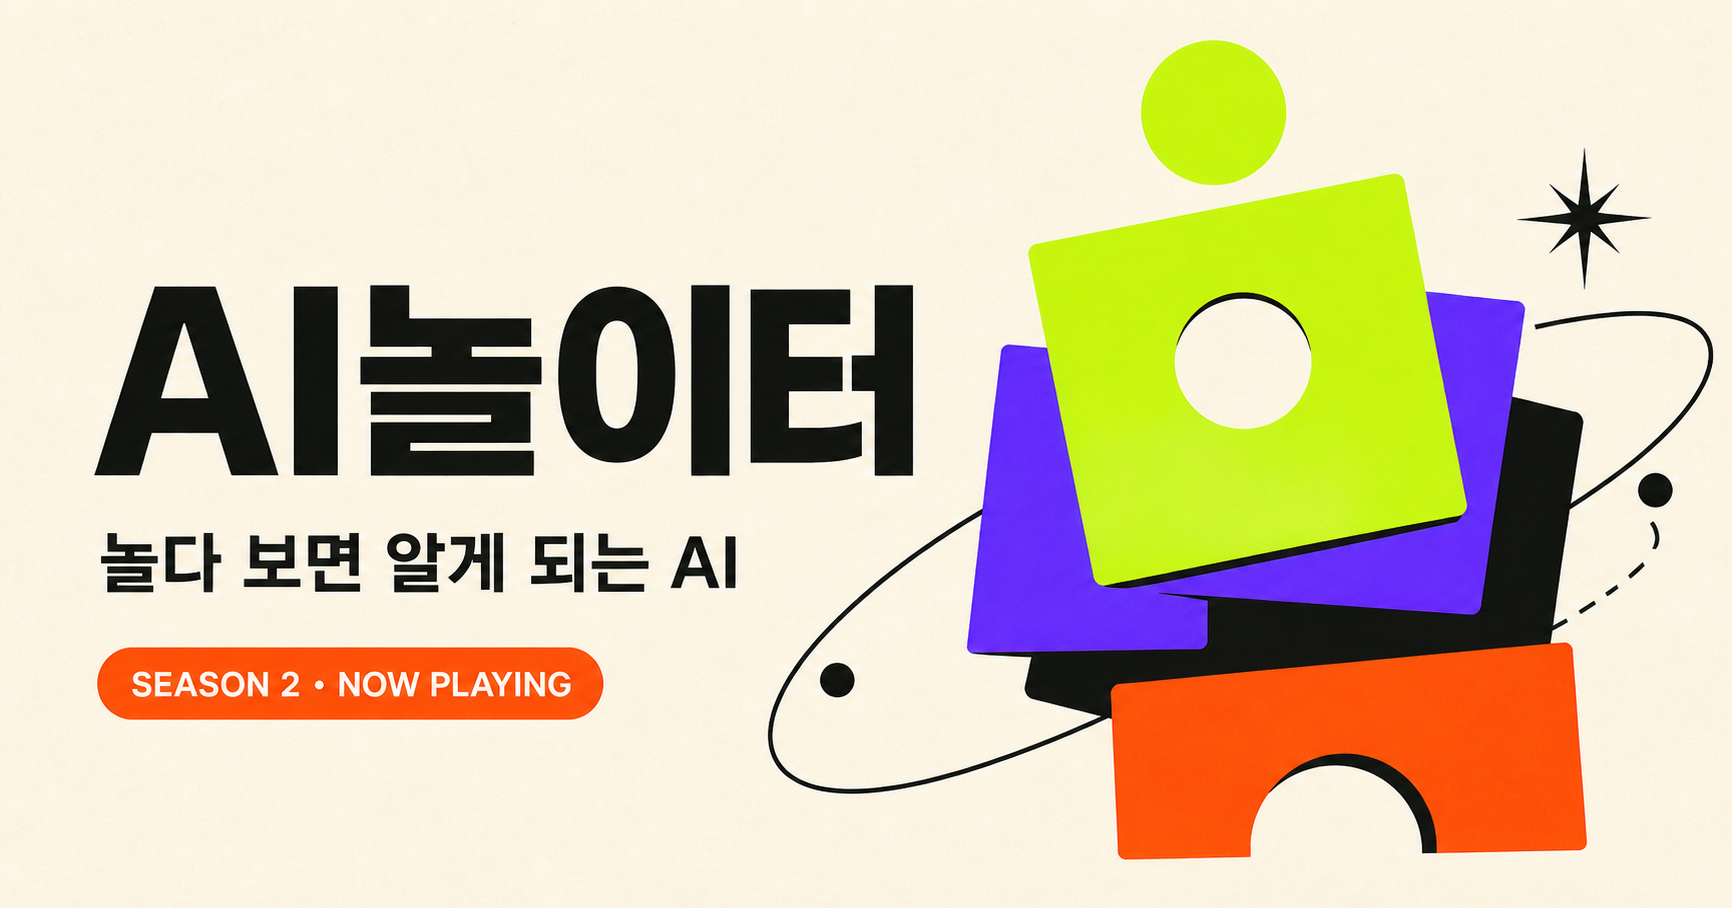
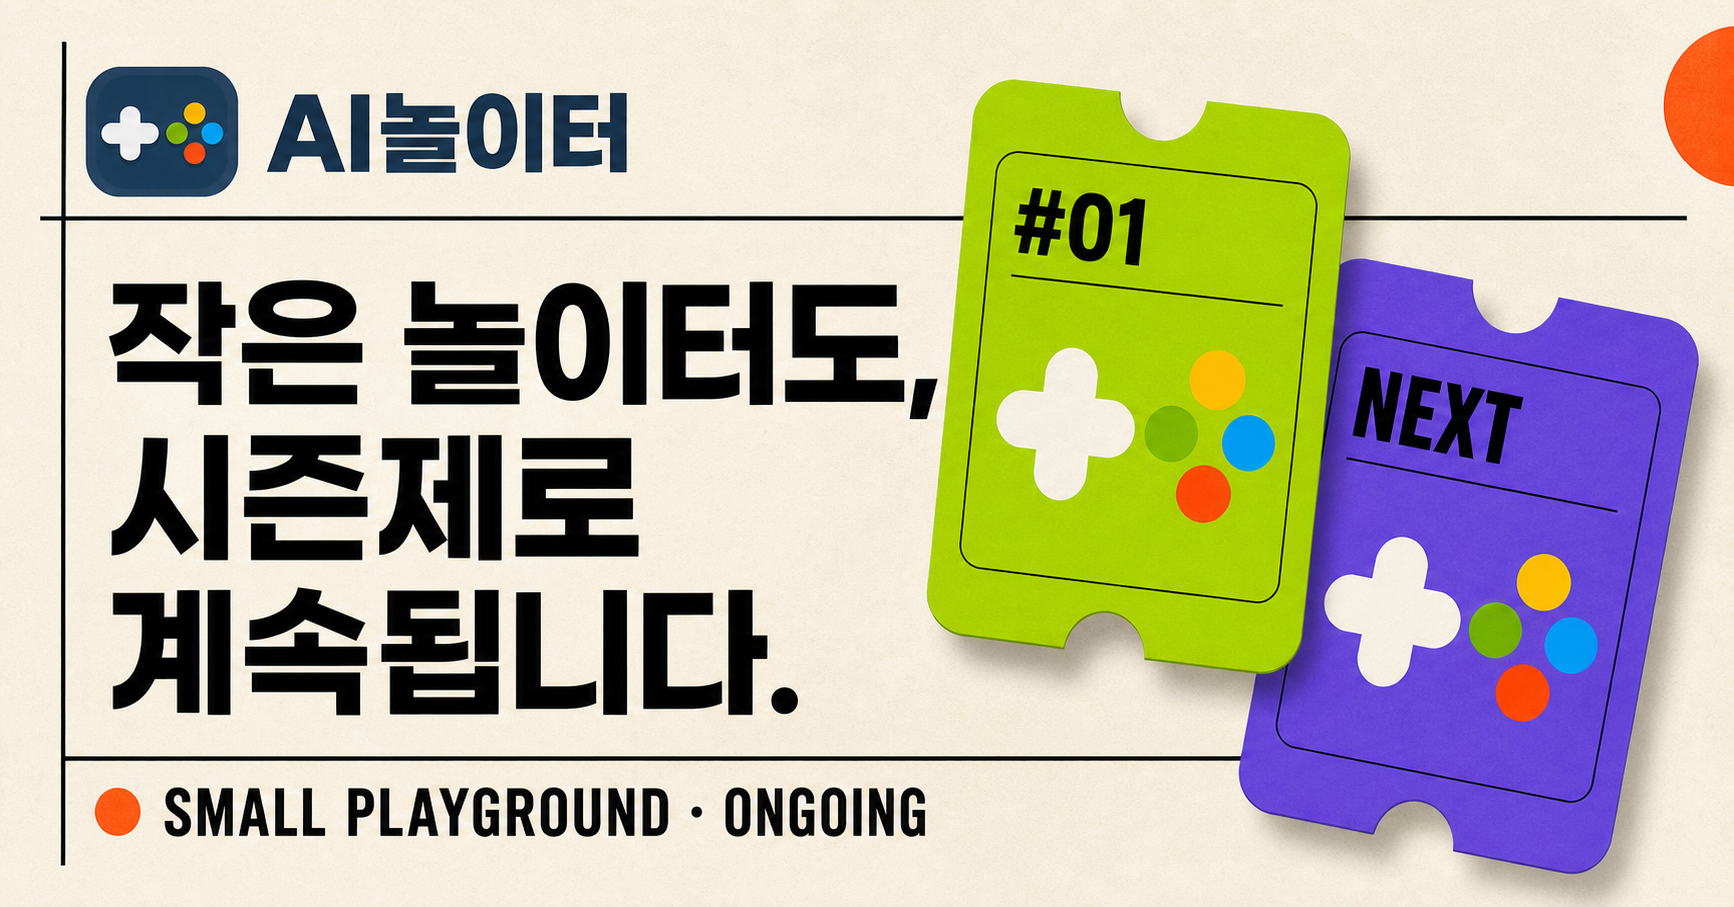
Turn Small Playground into an ongoing season series

diff --git a/app/globals.css b/app/globals.css
@@ -106,30 +106,29 @@ nav a:hover::after { transform: scaleX(1); transform-origin: left; }
 .season-card a { width: fit-content; display: inline-flex; align-items: center; gap: 16px; font-size: 14px; font-weight: 800; border-bottom: 1px solid currentColor; padding-bottom: 6px; position: relative; z-index: 2; }
 .coming-soon { width: fit-content; padding: 8px 11px; border: 1px dashed currentColor; font: 800 10px/1 Arial, sans-serif; letter-spacing: .12em; }
 
-.small-playground { min-height: 760px; padding: 120px clamp(24px, 7vw, 110px); background: var(--lime); display: grid; grid-template-columns: .12fr .88fr 1fr; gap: clamp(26px, 5vw, 80px); align-items: center; overflow: hidden; position: relative; }
-.small-number { align-self: start; font-size: clamp(64px, 8vw, 130px); font-weight: 900; line-height: .8; opacity: .18; transform: rotate(-8deg); }
+.small-playground { min-height: 820px; padding: 120px clamp(24px, 7vw, 110px); background: var(--lime); display: grid; grid-template-columns: .82fr 1.18fr; gap: clamp(50px, 8vw, 130px); align-items: center; overflow: hidden; position: relative; }
+.small-playground::before { content: "小"; position: absolute; left: -2vw; bottom: -9vw; font-size: clamp(220px, 35vw, 560px); font-weight: 900; line-height: .8; opacity: .07; transform: rotate(-8deg); pointer-events: none; }
 .small-copy { position: relative; z-index: 2; }
-.small-copy h2 { margin: 0; font-size: clamp(56px, 7vw, 108px); line-height: .92; letter-spacing: -.075em; }
-.small-lead { max-width: 520px; margin: 30px 0 42px; font-size: 20px; line-height: 1.7; }
-.small-copy details { max-width: 560px; border-top: 2px solid var(--ink); border-bottom: 2px solid var(--ink); }
-.small-copy summary { padding: 20px 0; display: flex; justify-content: space-between; gap: 24px; font-weight: 850; cursor: pointer; list-style: none; }
-.small-copy summary::-webkit-details-marker { display: none; }
-.small-copy summary span { font-size: 24px; transition: transform .25s ease; }
-.small-copy details[open] summary span { transform: rotate(45deg); }
-.details-content { padding: 2px 0 24px; animation: detailIn .35s ease both; }
-.details-content p { margin: 0 0 16px; line-height: 1.7; }
-.details-content span { font: 800 10px/1 Arial, sans-serif; letter-spacing: .12em; }
-@keyframes detailIn { from { opacity: 0; transform: translateY(-8px); } }
-.small-cards { height: 480px; position: relative; transform: translate(var(--px, 0), var(--py, 0)); transition: transform .18s ease-out; }
-.small-card { width: 260px; height: 210px; padding: 24px; border: 2px solid var(--ink); box-shadow: 8px 8px 0 var(--ink); position: absolute; display: flex; flex-direction: column; justify-content: space-between; transition: transform .35s cubic-bezier(.2,.8,.2,1); }
-.small-card span { font: 800 10px/1 Arial, sans-serif; letter-spacing: .12em; }
-.small-card strong { font-size: 36px; line-height: 1.08; letter-spacing: -.055em; }
-.small-card-one { top: 5px; left: 2%; background: var(--cream); transform: rotate(-8deg); }
-.small-card-two { top: 120px; right: 2%; background: var(--purple); color: white; transform: rotate(7deg); }
-.small-card-three { bottom: 0; left: 16%; background: var(--orange); color: white; transform: rotate(-2deg); }
-.small-card-one:hover { transform: rotate(-12deg) translateY(-10px); }
-.small-card-two:hover { transform: rotate(11deg) translateY(-10px); }
-.small-card-three:hover { transform: rotate(2deg) translateY(-10px); }
+.small-copy .eyebrow { margin-top: 30px; }
+.small-copy h2 { margin: 0; font-size: clamp(52px, 6.3vw, 96px); line-height: .98; letter-spacing: -.075em; }
+.small-copy h2 em { color: var(--purple); font-style: normal; }
+.small-lead { max-width: 590px; margin: 30px 0 34px; font-size: 18px; line-height: 1.75; }
+.small-status { width: fit-content; display: inline-flex; align-items: center; gap: 9px; padding: 9px 13px; background: var(--ink); color: var(--cream); border-radius: 999px; font: 800 10px/1 Arial, sans-serif; letter-spacing: .11em; }
+.small-status i, .small-season-live i { width: 8px; height: 8px; border-radius: 50%; background: #52db53; box-shadow: 0 0 0 4px rgba(82,219,83,.18); animation: pulse 2s infinite; }
+.small-source-link { width: fit-content; display: inline-flex; align-items: center; gap: 14px; padding-bottom: 6px; border-bottom: 1px solid var(--ink); font-size: 14px; font-weight: 850; }
+.small-season-list { display: grid; grid-template-columns: repeat(2, minmax(0, 1fr)); gap: 20px; position: relative; z-index: 2; }
+.small-season { min-height: 530px; padding: clamp(25px, 2.5vw, 38px); border: 2px solid var(--ink); box-shadow: 8px 8px 0 var(--ink); display: flex; flex-direction: column; justify-content: space-between; transform: perspective(1100px) rotateX(var(--tilt-x, 0deg)) rotateY(var(--tilt-y, 0deg)); transition: transform .2s ease-out, box-shadow .2s ease; }
+.small-season:hover { box-shadow: 13px 13px 0 var(--ink); }
+.small-season-first { background: var(--cream); }
+.small-season-next { background: var(--purple); color: white; }
+.small-season-top { display: flex; justify-content: space-between; align-items: flex-start; gap: 12px; }
+.small-season-no { font: 900 clamp(46px, 4vw, 68px)/.8 Arial, sans-serif; letter-spacing: -.07em; }
+.small-season-state, .small-season-live { padding: 8px 10px; border: 1px solid currentColor; border-radius: 999px; font-size: 10px; font-weight: 800; white-space: nowrap; }
+.small-season-live { display: inline-flex; align-items: center; gap: 8px; }
+.small-season-meta { margin: 0 0 15px; font: 800 10px/1.2 Arial, sans-serif; letter-spacing: .1em; }
+.small-season h3 { margin: 0 0 20px; font-size: clamp(29px, 2.6vw, 42px); line-height: 1.12; letter-spacing: -.055em; }
+.small-season p:not(.small-season-meta) { margin: 0; line-height: 1.7; opacity: .8; }
+.small-season > a { width: fit-content; display: inline-flex; align-items: center; gap: 13px; padding-bottom: 5px; border-bottom: 1px solid currentColor; font-size: 13px; font-weight: 850; }
 
 .playbook { background: var(--ink); color: var(--cream); }
 .section-heading.light > p { color: #abaea6; }
@@ -163,8 +162,7 @@ footer { padding: 34px clamp(24px, 5vw, 76px); border-top: 1px solid var(--ink);
   .hero-art { min-height: 470px; max-width: 600px; width: 100%; margin: 0 auto; }
   .intro-grid, .season-grid { grid-template-columns: 1fr; }
   .small-playground { grid-template-columns: 1fr; }
-  .small-number { display: none; }
-  .small-cards { max-width: 600px; width: 100%; margin: 0 auto; }
+  .small-season-list { max-width: 760px; }
   .intro-grid { gap: 48px; }
   .season-current, .season-past { min-height: 520px; }
   .steps { grid-template-columns: 1fr; }
@@ -195,9 +193,8 @@ footer { padding: 34px clamp(24px, 5vw, 76px); border-top: 1px solid var(--ink);
   .season-card { padding: 28px; min-height: 500px; }
   .season-number { font-size: 75px; }
   .join-stamp { display: none; }
-  .small-cards { height: 430px; transform: scale(.88) translate(var(--px, 0), var(--py, 0)); transform-origin: center top; margin-bottom: -50px; }
-  .small-card { width: 220px; height: 180px; }
-  .small-card strong { font-size: 30px; }
+  .small-season-list { grid-template-columns: 1fr; }
+  .small-season { min-height: 470px; }
   footer { align-items: flex-start; flex-direction: column; gap: 24px; }
 }
 

diff --git a/app/page.tsx b/app/page.tsx
@@ -2,6 +2,10 @@ import { ScrollInteractions } from "./scroll-interactions";
 
 const linkedInUrl =
   "https://www.linkedin.com/groups/14571141/?highlightedUpdateUrn=urn%3Ali%3AgroupPost%3A14571141-7486229108755136512&q=highlightedFeedForGroups";
+const smallPlaygroundPostUrl =
+  "https://kr.linkedin.com/posts/sollar99_%EB%90%9C%EB%8B%A4-%EB%A7%81%ED%81%AC%EB%93%9C%EC%9D%B8-%ED%99%9C%EC%9A%A9%EB%B2%95-%EB%B3%80%EC%9E%AC%EC%9D%BC-%EB%8B%98%EC%9D%98-%EB%A7%81%ED%81%AC%EB%93%9C%EC%9D%B8%EC%97%90-%EB%8C%80%ED%95%9C-%EC%97%B4%EC%A0%95%EA%B0%95%EC%97%B0-%EA%B7%B8%EB%A6%AC%EA%B3%A0-activity-7480060156257423360-q_W_";
+const interviewUrl =
+  "https://microsoft.github.io/mwkorea/monthlycopilot/MonthlyCopilotInterviewKimSM/";
 
 const playSteps = [
   ["01", "만져보기", "새로운 AI 도구를 직접 열고, 궁금한 만큼 자유롭게 실험합니다."],
@@ -126,23 +130,40 @@ export default function Home() {
       </section>
 
       <section className="small-playground" id="small-playground">
-        <div className="small-number" aria-hidden="true">小</div>
         <div className="small-copy" data-reveal>
+          <div className="small-status"><i /> SERIES · ONGOING</div>
           <p className="eyebrow">SMALL PLAYGROUND</p>
-          <h2>작은 놀이터</h2>
-          <p className="small-lead">더 작게 모여, 더 가까이 나누는 AI놀이터 속 작은 만남입니다.</p>
-          <details>
-            <summary>작은 놀이터 이야기 펼쳐보기 <span aria-hidden="true">＋</span></summary>
-            <div className="details-content">
-              <p>주제와 일정, 함께한 사람들의 이야기는 내용을 전달해주시는 대로 이곳에 차근차근 추가할 예정입니다.</p>
-              <span>DETAILS COMING SOON</span>
-            </div>
-          </details>
+          <h2>작은 놀이터도,<br /><em>시즌제로 계속됩니다.</em></h2>
+          <p className="small-lead">AI놀이터의 큰 만남 사이, 삼삼오오 모여 한 가지 주제를 더 깊게 실습하고 이야기합니다. 먼저 해본 사람이 나누고, 놀다 보면 어느새 나도 할 수 있게 되는 자리입니다.</p>
+          <a className="small-source-link" href={interviewUrl} target="_blank" rel="noreferrer">
+            작은 놀이터 소개 인터뷰 <Arrow />
+          </a>
         </div>
-        <div className="small-cards" data-parallax data-reveal>
-          <div className="small-card small-card-one"><span>SMALL</span><strong>작게<br />시작해요.</strong></div>
-          <div className="small-card small-card-two"><span>DEEP</span><strong>깊게<br />나눠요.</strong></div>
-          <div className="small-card small-card-three"><span>TOGETHER</span><strong>함께<br />발견해요.</strong></div>
+        <div className="small-season-list" data-reveal>
+          <article className="small-season small-season-first" data-tilt>
+            <div className="small-season-top">
+              <span className="small-season-no">#01</span>
+              <span className="small-season-state">첫 번째 기록</span>
+            </div>
+            <div>
+              <p className="small-season-meta">2026.07.05 · MICROSOFT 13F</p>
+              <h3>LinkedIn으로<br />소셜 브랜딩하기</h3>
+              <p>『된다! 링크드인 활용법』 변재일 저자와 함께 기록, 축적, 연결이 어떻게 나와 조직의 브랜드가 되는지 직접 배우고 나눴습니다.</p>
+            </div>
+            <a href={smallPlaygroundPostUrl} target="_blank" rel="noreferrer">현장 포스팅 보기 <Arrow /></a>
+          </article>
+          <article className="small-season small-season-next" data-tilt>
+            <div className="small-season-top">
+              <span className="small-season-no">NEXT</span>
+              <span className="small-season-live"><i /> 계속 진행 중</span>
+            </div>
+            <div>
+              <p className="small-season-meta">NEW TOPIC · NEW PLAYERS</p>
+              <h3>다음 작은 놀이터는<br />또 다른 주제로.</h3>
+              <p>평소 시작을 망설였던 주제, 새롭게 발견한 재미있는 도구와 경험을 소규모 워크숍으로 이어갑니다.</p>
+            </div>
+            <a href={linkedInUrl} target="_blank" rel="noreferrer">다음 소식 확인하기 <Arrow /></a>
+          </article>
         </div>
       </section>
 

diff --git a/app/layout.tsx b/app/layout.tsx
@@ -8,7 +8,7 @@ export const metadata: Metadata = {
   openGraph: {
     title: "AI놀이터 | 놀다 보면 알게 되는 AI",
     description: "AI놀이터 시즌2가 진행 중입니다.",
-    images: [{ url: "/og.png", width: 1734, height: 908, alt: "AI놀이터 시즌2" }],
+    images: [{ url: "/og.png", width: 1734, height: 907, alt: "AI놀이터 작은 놀이터 시즌 시리즈" }],
   },
   twitter: {
     card: "summary_large_image",
